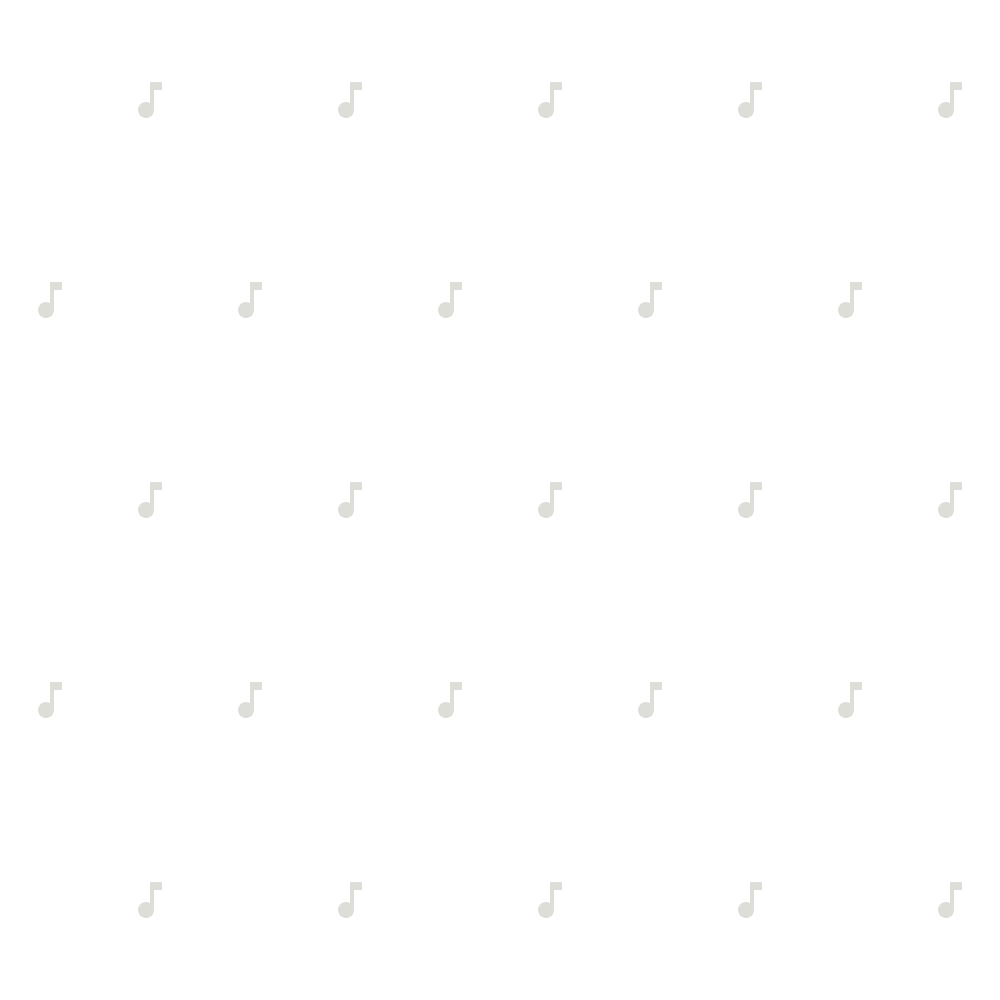
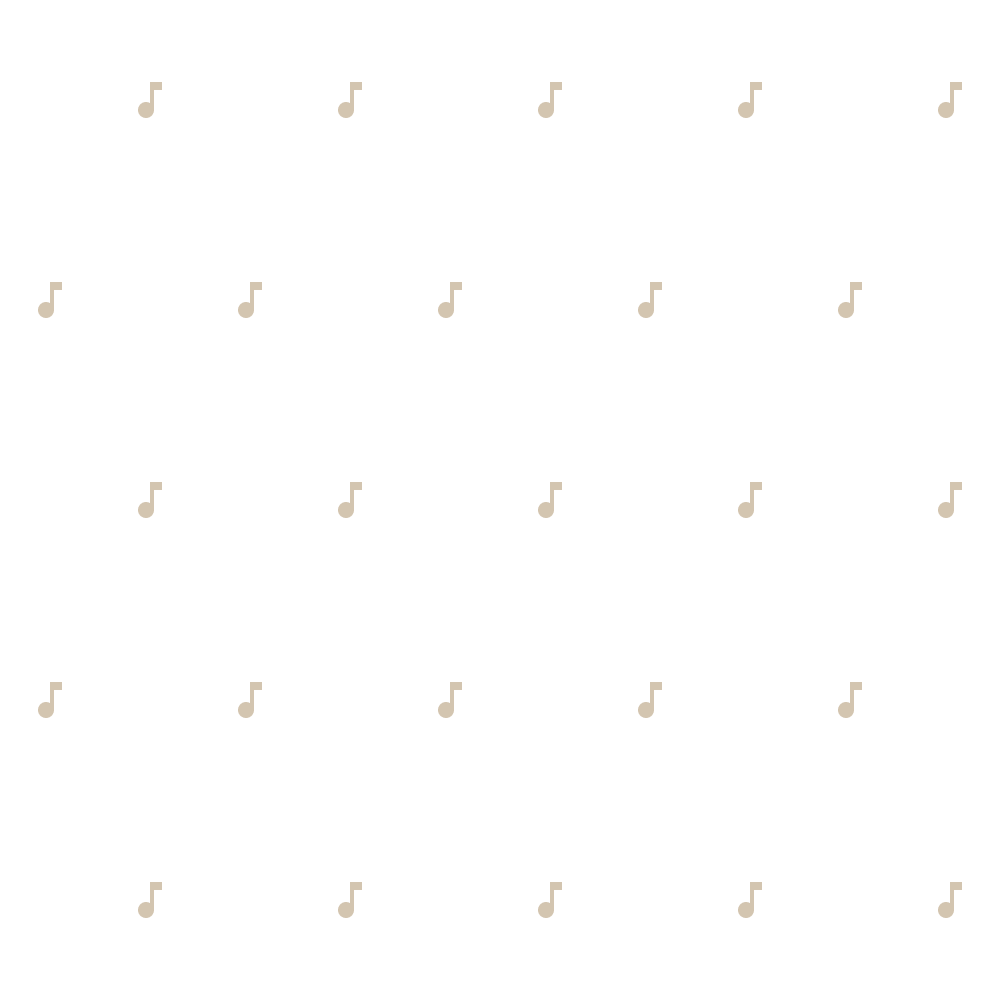
new theme color names and initial fonts

diff --git a/src/index.html b/src/index.html
@@ -7,32 +7,72 @@ class: home
 ---
 
 <section class="text-center px-4 sm:px-8 md:px-12 py-8 sm:py-12 flex flex-col items-center gap-16">
-  <h1 class="text-3xl font-bold">{{ home.title | asText }}</h1>
+  <div class="flex flex-col gap-16 w-full max-w-[540px]">
+    <h1>{{ home.title | asText }}</h1>
 
-  <div class="flex flex-col gap-16 bg-white p-8 rounded-lg shadow-lg">
-    <p class="w-full max-w-xl">
+    <p>
       {{ home.description }}
     </p>
 
-    <div class="w-full h-50 bg-cement"></div>
-    <div class="w-full h-50 bg-indian-khaki"></div>
-    <div class="w-full h-50 bg-tea"></div>
-    <div class="w-full h-50 bg-heathered-gray"></div>
-    <div class="w-full h-50 bg-lemon-grass"></div>
-    <div class="w-full h-50 bg-heathered-gray-2"></div>
-    <div class="w-full h-50 bg-storm-dust"></div>
-    <div class="w-full h-50 bg-pearl-bush"></div>
-    <div class="w-full h-50 bg-vanilla"></div>
-    <div class="w-full h-50 bg-parchment"></div>
-    <div class="w-full h-50 bg-bone"></div>
-    <div class="w-full h-50 bg-nomad"></div>
-    <div class="w-full h-50 bg-donkey-brown"></div>
-    <div class="w-full h-50 bg-delta"></div>
-    <div class="w-full h-50 bg-americano"></div>
-    <div class="w-full h-50 bg-teak"></div>
-    <div class="w-full h-50 bg-delta-2"></div>
-    <div class="w-full h-50 bg-antique-brass"></div>
-    <div class="w-full h-50 bg-battleship-gray"></div>
-    <div class="w-full h-50 bg-millbrook"></div>
+    <div class="h-50 bg-silver rounded flex items-center justify-center">
+      <p class="text-white">Silver</p>
+    </div>
+    <div class="h-50 bg-khaki rounded flex items-center justify-center">
+      <p class="text-white">Khaki</p>
+    </div>
+    <div class="h-50 bg-pale-taupe rounded flex items-center justify-center">
+      <p class="text-white">Pale Taupe</p>
+    </div>
+    <div class="h-50 bg-light-taupe rounded flex items-center justify-center">
+      <p class="text-white">Light Taupe</p>
+    </div>
+    <div class="h-50 bg-warm-gray rounded flex items-center justify-center">
+      <p class="text-white">Warm Gray</p>
+    </div>
+    <div class="h-50 bg-sage rounded flex items-center justify-center">
+      <p class="text-white">Sage</p>
+    </div>
+    <div class="h-50 bg-dark-olive rounded flex items-center justify-center">
+      <p class="text-white">Dark Olive</p>
+    </div>
+    <div class="h-50 bg-pearl rounded flex items-center justify-center">
+      <p class="text-white">Pearl</p>
+    </div>
+    <div class="h-50 bg-tan rounded flex items-center justify-center">
+      <p class="text-white">Tan</p>
+    </div>
+    <div class="h-50 bg-cream rounded flex items-center justify-center">
+      <p class="text-white">Cream</p>
+    </div>
+    <div class="h-50 bg-eggshell rounded flex items-center justify-center">
+      <p class="text-white">Eggshell</p>
+    </div>
+    <div class="h-50 bg-silver rounded flex items-center justify-center">
+      <p class="text-white">Silver</p>
+    </div>
+    <div class="h-50 bg-beaver rounded flex items-center justify-center">
+      <p class="text-white">Beaver</p>
+    </div>
+    <div class="h-50 bg-dust rounded flex items-center justify-center">
+      <p class="text-white">Dust</p>
+    </div>
+    <div class="h-50 bg-mocha rounded flex items-center justify-center">
+      <p class="text-white">Mocha</p>
+    </div>
+    <div class="h-50 bg-caramel rounded flex items-center justify-center">
+      <p class="text-white">Caramel</p>
+    </div>
+    <div class="h-50 bg-ash rounded flex items-center justify-center">
+      <p class="text-white">Ash</p>
+    </div>
+    <div class="h-50 bg-copper rounded flex items-center justify-center">
+      <p class="text-white">Copper</p>
+    </div>
+    <div class="h-50 bg-slate rounded flex items-center justify-center">
+      <p class="text-white">Slate</p>
+    </div>
+    <div class="h-50 bg-coffee rounded flex items-center justify-center">
+      <p class="text-white">Coffee</p>
+    </div>
   </div>
 </section>

diff --git a/src/testing.html b/src/testing.html
@@ -6,55 +6,57 @@ script: testing
 class: testing
 ---
 
-<section class="text-center px-4 sm:px-8 md:px-12 py-8 sm:py-12 flex flex-col gap-16 justify-center">
-  <h1 class="text-3xl font-bold">Testing</h1>
+<section class="text-center px-4 sm:px-8 md:px-12 py-8 sm:py-12 flex flex-col items-center gap-16">
+  <div class="flex flex-col gap-16 w-full max-w-[540px]">
+    <h1>Testing</h1>
 
-  <div class="flex justify-center">
-    <p class="w-full max-w-xl">Testing embeds and rich text content from Prismic.</p>
-  </div>
+    <div class="flex justify-center">
+      <p class="w-full max-w-xl">Testing embeds and rich text content from Prismic.</p>
+    </div>
 
-  <!-- Embeds -->
-  <details class="cursor-pointer">
-    <summary>Toggle Embed JSON</summary>
-    <pre class="block whitespace-pre overflow-x-scroll text-left bg-neutral-900 text-white p-8 rounded">
+    <!-- Embeds -->
+    <details class="cursor-pointer">
+      <summary>Toggle Embed JSON</summary>
+      <pre class="block whitespace-pre overflow-x-scroll text-left bg-neutral-900 text-white p-8 rounded">
 {{ testing.vimeo_embed | json: 2 | escape }}
 {{ testing.youtube_embed | json: 2 | escape }}
-    </pre>
-  </details>
-  <div class="flex justify-center">
-    <div class="w-full max-w-xl">
-      {%
-        render "templates/embed",
-        provider: testing.vimeo_embed.provider_name,
-        video_id: testing.vimeo_embed.video_id,
-        title: testing.vimeo_embed.title,
-        thumbnail: testing.vimeo_embed.thumbnail_url
-      %}
+      </pre>
+    </details>
+    <div class="flex justify-center">
+      <div class="w-full max-w-xl">
+        {%
+          render "templates/embed",
+          provider: testing.vimeo_embed.provider_name,
+          video_id: testing.vimeo_embed.video_id,
+          title: testing.vimeo_embed.title,
+          thumbnail: testing.vimeo_embed.thumbnail_url
+        %}
+      </div>
     </div>
-  </div>
-  <div class="flex justify-center">
-    <div class="w-full max-w-xl">
-      {% assign youtube_id = testing.youtube_embed.embed_url | replace: "https://www.youtube.com/watch?v=", "" %}
-      {%
-        render "templates/embed",
-        provider: testing.youtube_embed.provider_name,
-        video_id: youtube_id,
-        title: testing.youtube_embed.title,
-        thumbnail: testing.youtube_embed.thumbnail_url
-      %}
+    <div class="flex justify-center">
+      <div class="w-full max-w-xl">
+        {% assign youtube_id = testing.youtube_embed.embed_url | replace: "https://www.youtube.com/watch?v=", "" %}
+        {%
+          render "templates/embed",
+          provider: testing.youtube_embed.provider_name,
+          video_id: youtube_id,
+          title: testing.youtube_embed.title,
+          thumbnail: testing.youtube_embed.thumbnail_url
+        %}
+      </div>
     </div>
-  </div>
 
-  <!-- Rich Text -->
-  <details class="cursor-pointer">
-    <summary>Toggle Rich Text JSON</summary>
-    <pre class="block whitespace-pre overflow-x-scroll text-left bg-neutral-900 text-white p-8 rounded">
+    <!-- Rich Text -->
+    <details class="cursor-pointer">
+      <summary>Toggle Rich Text JSON</summary>
+      <pre class="block whitespace-pre overflow-x-scroll text-left bg-neutral-900 text-white p-8 rounded">
 {{ testing.body | json: 2 | escape }}
-    </pre>
-  </details>
-  <div class="flex justify-center">
-    <div class="w-full max-w-xl">
-      {% render "templates/rich_text", body: testing.body %}
+      </pre>
+    </details>
+    <div class="flex justify-center">
+      <div class="w-full max-w-xl">
+        {% render "templates/rich_text", body: testing.body %}
+      </div>
     </div>
   </div>
 </section>

diff --git a/src/css/styles.css b/src/css/styles.css
@@ -4,83 +4,95 @@
 /* @layer theme, base, components, utilities; */
 
 @theme {
-  --color-cement: #8a6c61;
-  --color-indian-khaki: #bda891;
-  --color-tea: #c1bcad;
-  --color-heathered-gray: #b6ab90;
-  --color-lemon-grass: #96958b;
-  --color-heathered-gray-2: #bab792;
-  --color-storm-dust: #686961;
-  --color-pearl-bush: #e5ddd5;
-  --color-vanilla: #d3c5b0;
-  --color-parchment: #efe7cf;
-  --color-bone: #eadfcf;
-  --color-nomad: #b5aea2;
-  --color-donkey-brown: #a2937e;
-  --color-delta: #a0a197;
-  --color-americano: #8a776b;
-  --color-teak: #b78e70;
-  --color-delta-2: #adaea5;
-  --color-antique-brass: #c08a6e;
-  --color-battleship-gray: #8a9182;
-  --color-millbrook: #5d4b37;
+  /* Colors: https://www.color-blindness.com/color-name-hue/ */
+  --color-beaver: #8a6c61;
+  --color-khaki: #bda891;
+  --color-pale-taupe: #c1bcad;
+  --color-light-taupe: #b6ab90;
+  --color-warm-gray: #96958b;
+  --color-sage: #bab792;
+  --color-dark-olive: #686961;
+  --color-pearl: #e5ddd5;
+  --color-tan: #d3c5b0;
+  --color-cream: #efe7cf;
+  --color-eggshell: #eadfcf;
+  --color-silver: #b5aea2;
+  --color-dust: #a2937e;
+  --color-pewter: #a0a197;
+  --color-mocha: #8a776b;
+  --color-caramel: #b78e70;
+  --color-ash: #adaea5;
+  --color-copper: #c08a6e;
+  --color-slate: #8a9182;
+  --color-coffee: #5d4b37;
+
+  /* Fonts */
+  --font-sans: "Atkinson Hyperlegible", sans-serif;
+  --font-serif: "Kiwi Maru", serif;
+
+  /* Typography */
+  --text-h1: 4rem;
+}
+
+@layer base {
+  h1 {
+    @apply text-h1 font-serif text-coffee;
+  }
+
+  h2 {
+    @apply font-serif text-coffee;
+  }
+
+  h3 {
+    @apply font-serif text-coffee;
+  }
+
+  h4 {
+    @apply font-serif text-coffee;
+  }
+
+  h5 {
+    @apply font-serif text-coffee;
+  }
+
+  h6 {
+    @apply font-serif text-coffee;
+  }
+
+  p {
+    @apply font-sans text-base;
+  }
+
+  ul {
+    @apply list-disc ml-4;
+  }
+
+  ol {
+    @apply list-decimal ml-4;
+  }
+
+  em {
+    @apply italic;
+  }
 }
 
 @layer components {
   .home {
     --bg-y: 0;
-    background-image: url("/assets/music-notes.png");
+    /* background-image: url("/assets/music-notes.png"); */
     background-size: 500px 500px;
     background-position: center var(--bg-y);
     background-repeat: repeat;
     background-attachment: fixed;
   }
 
+  /* Used for embeds: src/_includes/templates/embed.liquid */
   .embed {
     iframe {
       @apply absolute inset-0 w-full h-full;
     }
   }
 
-  .cms {
-    h1 {
-      @apply text-4xl font-bold;
-    }
-
-    h2 {
-      @apply text-2xl font-bold;
-    }
-
-    h3 {
-      @apply text-xl font-bold;
-    }
-
-    h4 {
-      @apply text-lg font-bold;
-    }
-
-    h5 {
-      @apply text-base font-bold;
-    }
-
-    h6 {
-      @apply text-sm font-bold;
-    }
-
-    p {
-      @apply text-base;
-    }
-
-    ul {
-      @apply list-disc ml-4;
-    }
-
-    ol {
-      @apply list-decimal ml-4;
-    }
-
-    em {
-      @apply italic;
-    }
-  }
+  /* Used for CMS content: src/_includes/templates/rich_text.liquid */
+  /* .cms {} */
 }
